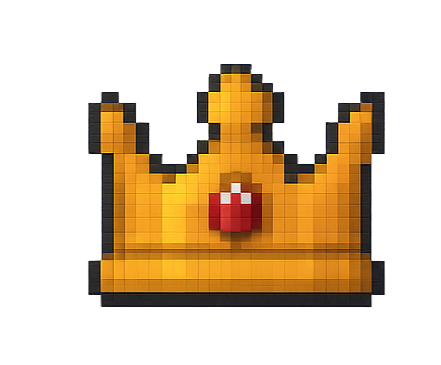
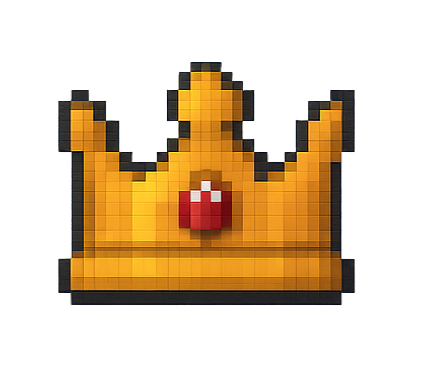
bend crown

Changed region(s): [[0.1229, 0.1507, 0.8913, 0.8438]]

diff --git a/srcs/frontend/src/components/friendList.ts b/srcs/frontend/src/components/friendList.ts
@@ -3,7 +3,7 @@ export const friendListHTML = /*html*/`
         <h2>Friends</h2>
         <hr>
         <div class="friend">
-            <img src="./img/bronze-crown.png" alt="Crown" class="crown">
+       <!-- <img src="./img/bronze-crown.png" alt="Crown" class="crown"> -->
             <img src="./img/tung-tung-tung-sahur.jpeg" alt="Friend Avatar" class="profile-pic">
             <p class="friend-name">tung_sahur92i</p>
         </div>
@@ -12,12 +12,12 @@ export const friendListHTML = /*html*/`
             <p class="friend-name">BRR Patapim</p>
         </div>
         <div class="friend">
-            <img src="./img/silver-crown.png" alt="Crown" class="crown">
+       <!-- <img src="./img/silver-crown.png" alt="Crown" class="crown"> -->
             <img src="./img/bombardilo-crocodilo.jpg" alt="Friend Avatar" class="profile-pic">
-            <p class="friend-name">bombardilo_croco</p>
+            <p class="friend-name">bombardilolo</p>
         </div>
         <div class="friend">
-            <img src="./img/gold-crown.png" alt="Crown" class="crown">
+            <img src="./img/gold-crown.png" alt="Crown" class="crown" id="gold-crown">
             <img src="./img/tralalero-tralala.png" alt="Friend Avatar" class="profile-pic">
             <p class="friend-name">tralalero</p>
         </div>

diff --git a/srcs/frontend/styles/input.css b/srcs/frontend/styles/input.css
@@ -40,7 +40,7 @@
 @layer components {
 
     h1 {
-        @apply bg-black;
+        @apply text-left border-b-[3px] border-white pb-[15px] pt-[20px] w-full text-3xl bg-black;
     }
 
     h2 {
@@ -104,11 +104,12 @@
 
     .crown {
         @apply absolute z-10;
-        top: -2.5vh;
-        left: -1.5vh;
-        width: 120px !important;
-        height: 50px !important;
+        top: -2.7vh;
+        left: -2.3vh;
+        width: 130px !important;
+        height: 65px !important;
         object-fit: fill !important;
+        transform: rotate(-10deg);
     }
 
     .profile-pic {

diff --git a/srcs/frontend/index.html b/srcs/frontend/index.html
@@ -12,7 +12,7 @@
 </head>
 <body class="font-press-start bg-black text-white text-center flex flex-col items-center min-h-screen">
   <div class="stars"></div>
-  <h1 id="title" class="text-left border-b-[3px] border-white pb-[15px] pt-[20px] ml-[20px] self-stretch w-full text-3xl">FT_TRANSCENDENCE</h1>
+  <h1 id="title">FT_TRANSCENDENCE</h1>
 
   <div id="landing" class="page"></div>
   <div id="mainMenu" class="page"></div>

diff --git a/srcs/frontend/src/components/leaderboard.ts b/srcs/frontend/src/components/leaderboard.ts
@@ -6,7 +6,7 @@ export const leaderboardHTML = /*html*/`
             <p class="friend-name">1. tralalero</p>
         </div>
         <div class="friend">
-            <p class="friend-name">2. bombardilo_croco</p>
+            <p class="friend-name">2. bombardilolo</p>
         </div>
         <div class="friend">
             <p class="friend-name">3. tung_sahur92i</p>
